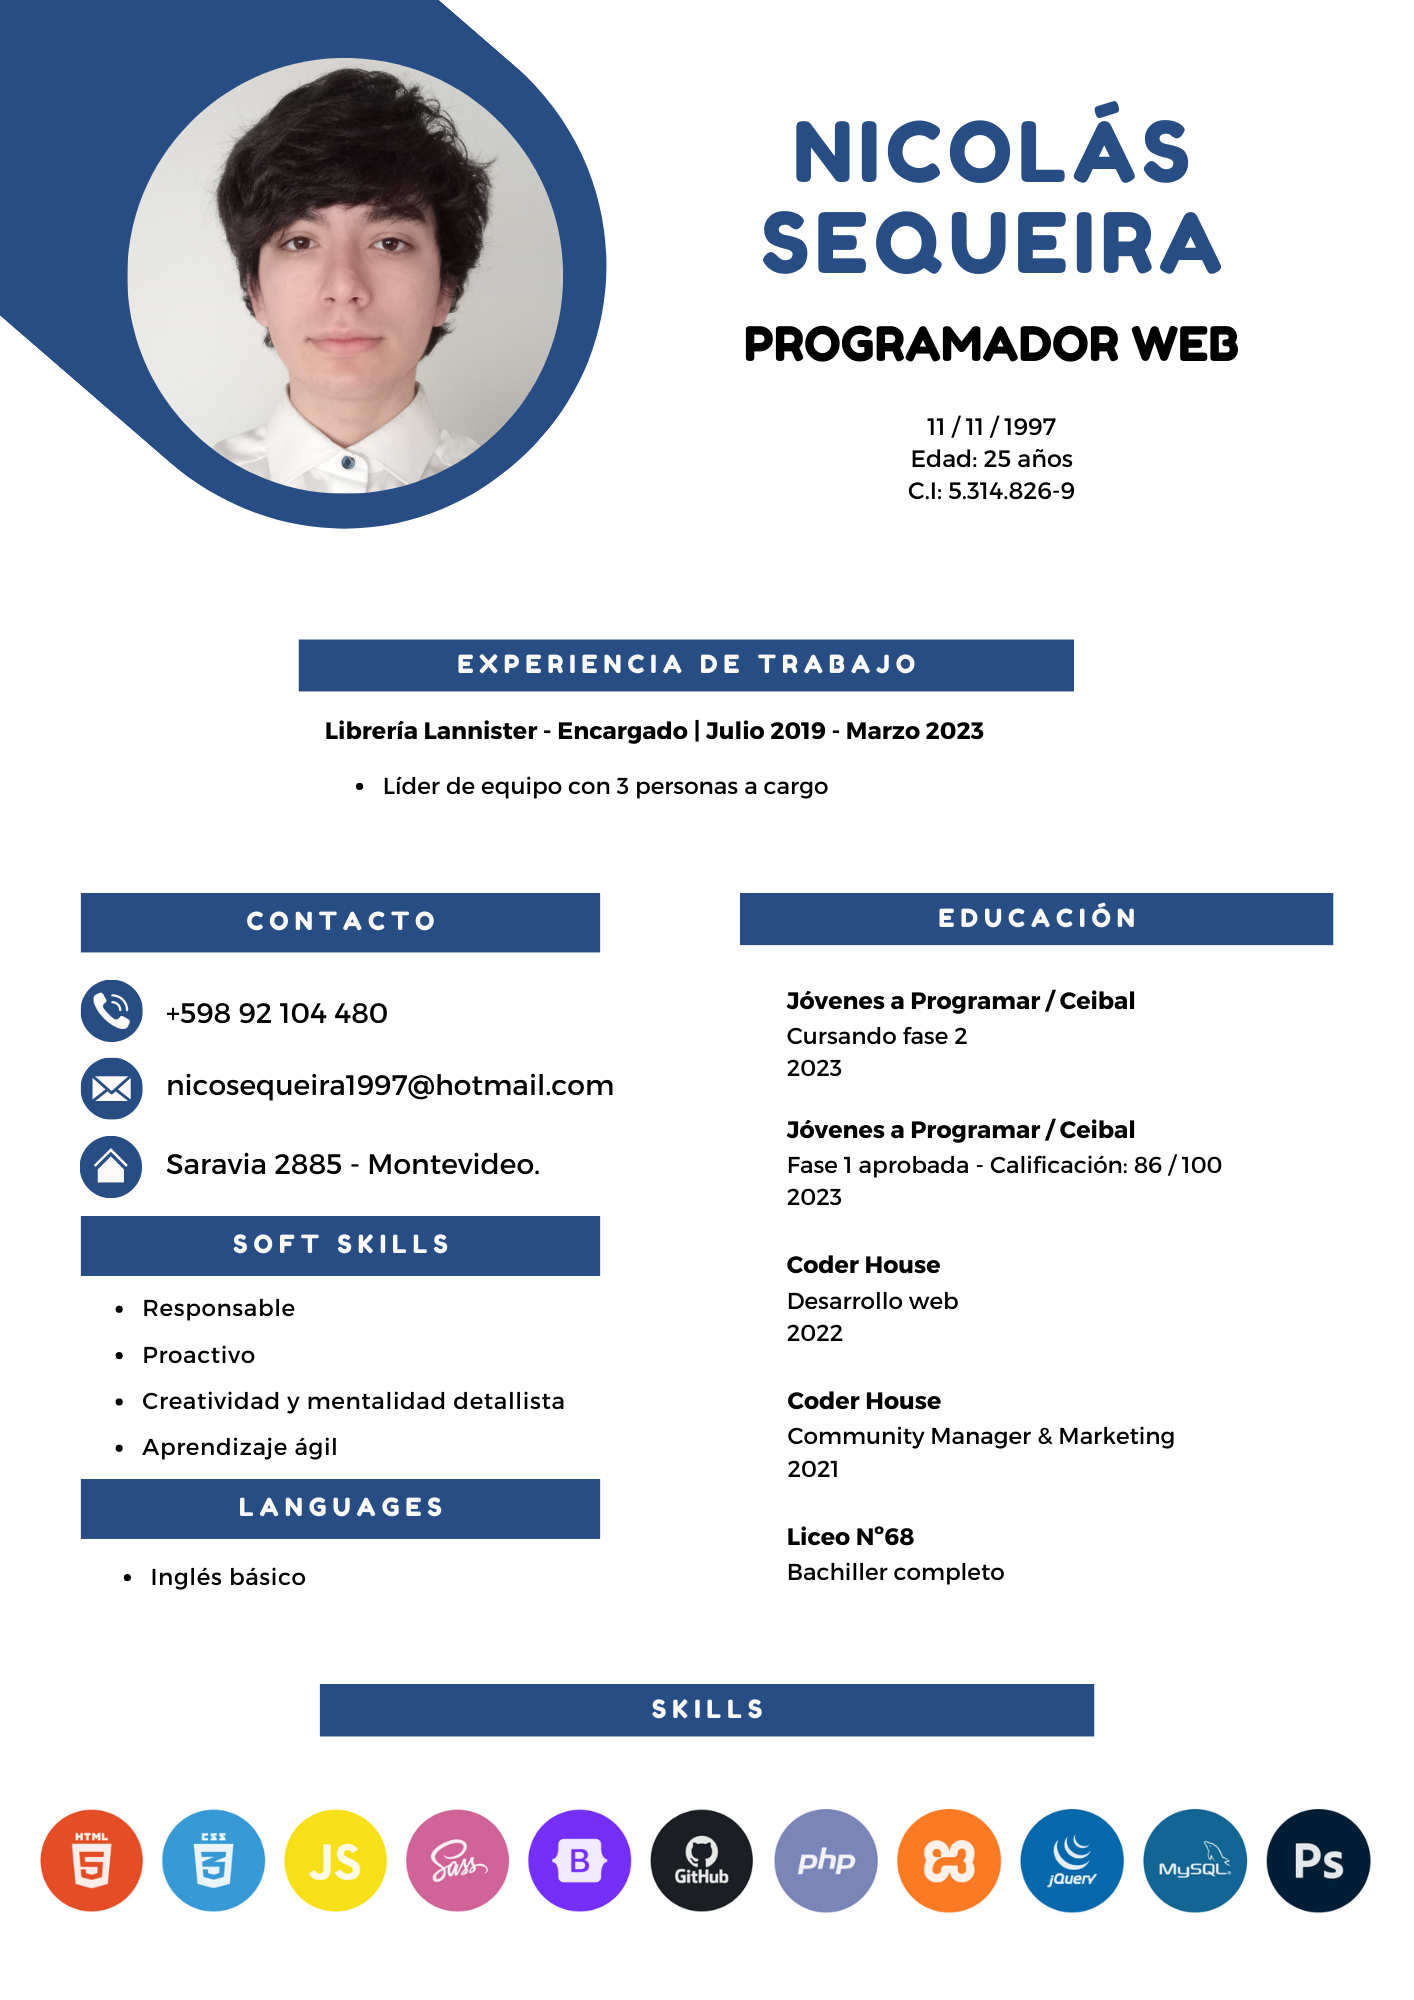
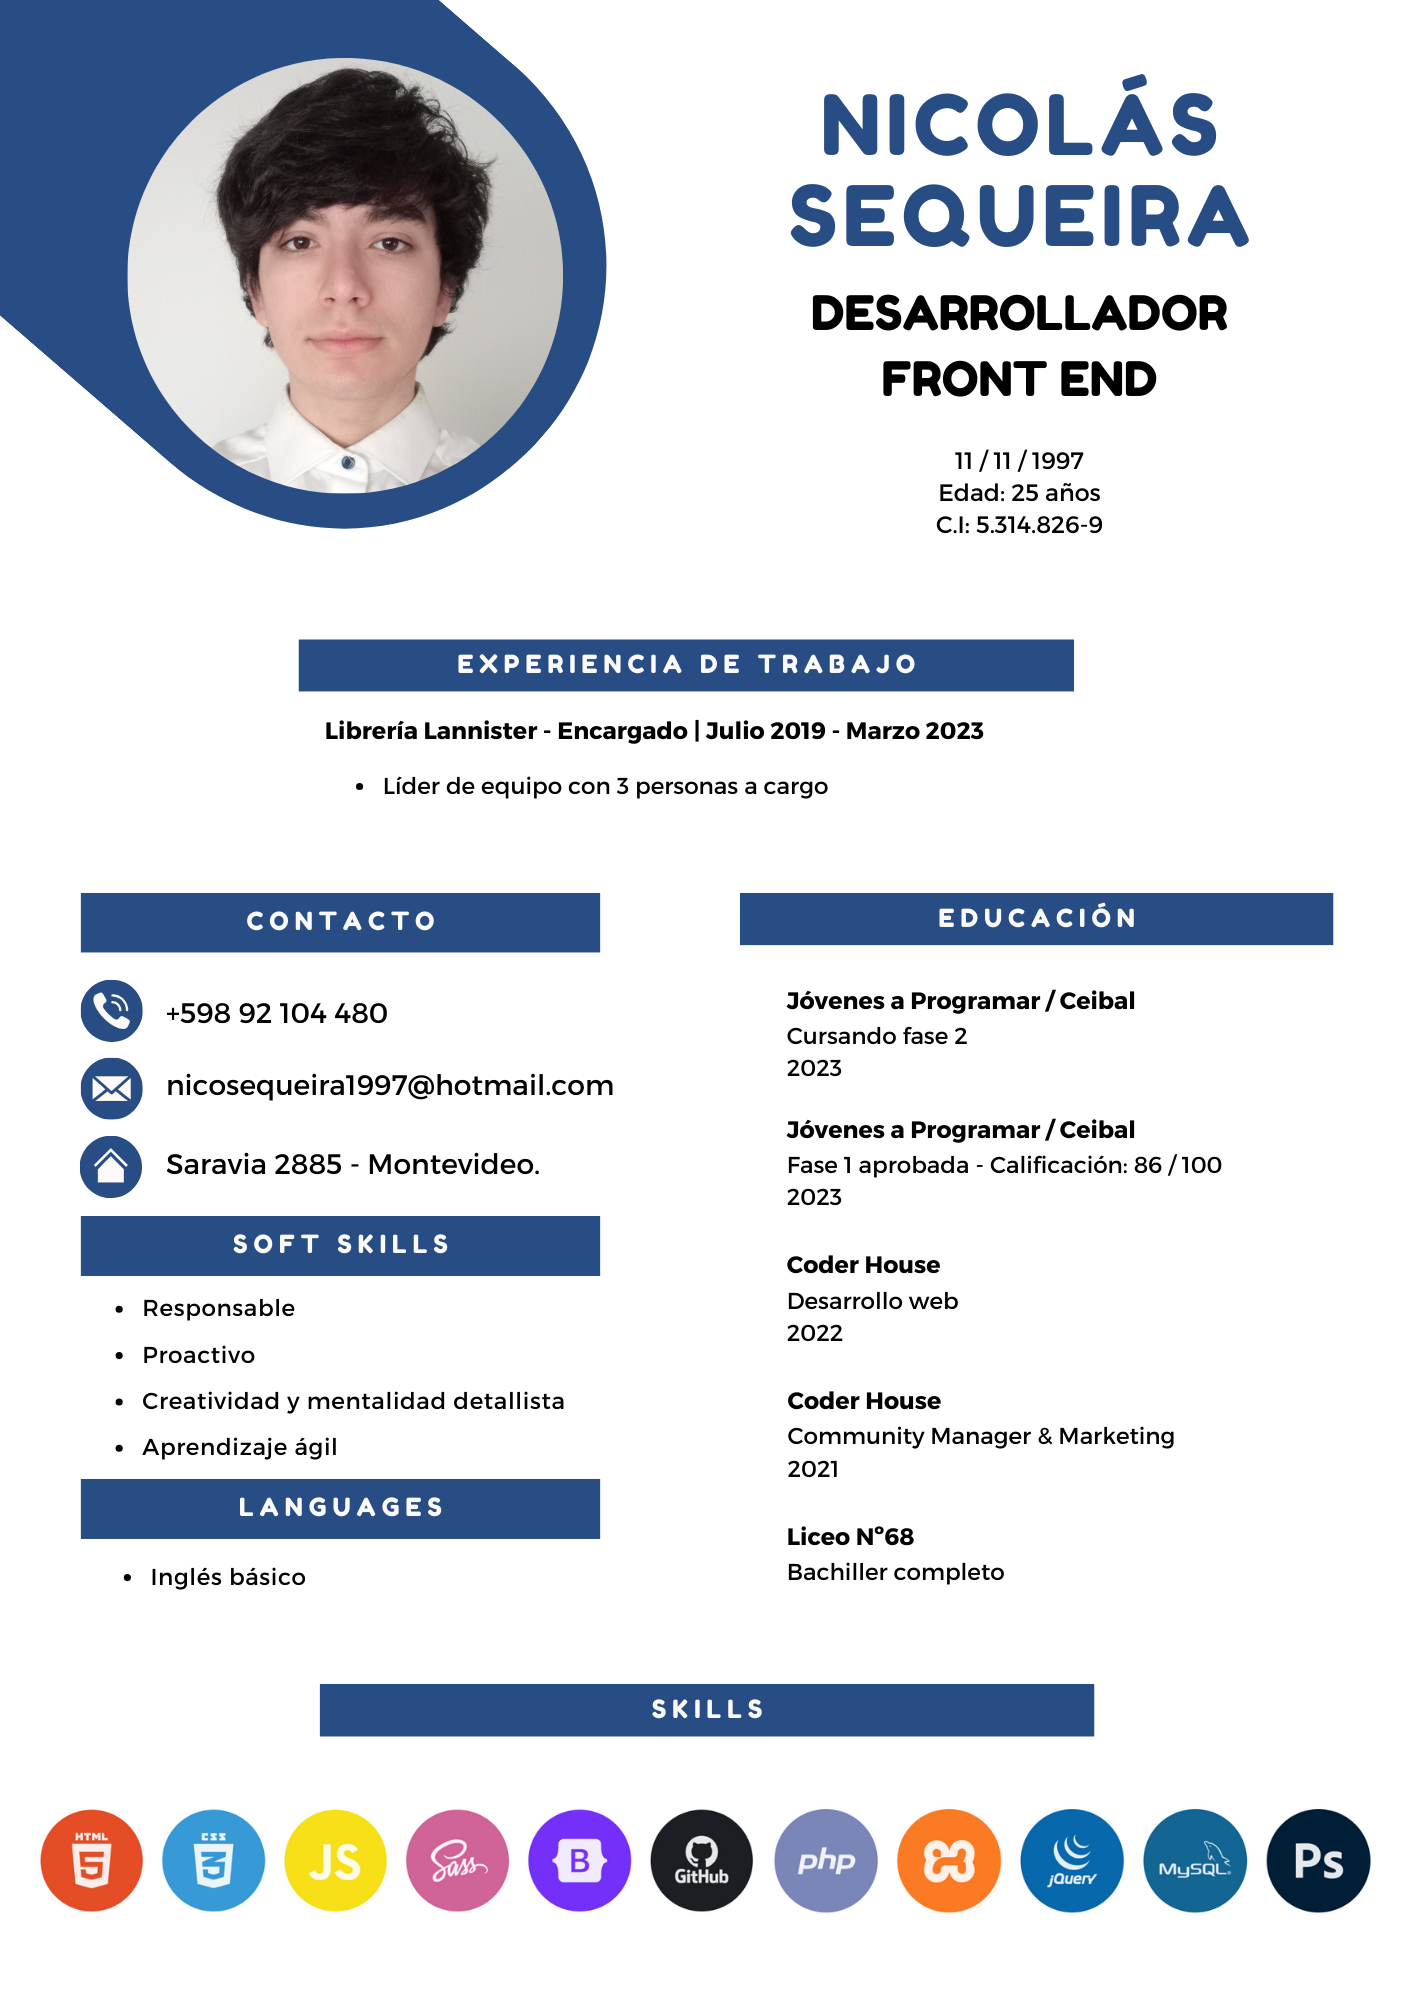
cambios cv y links nav

Changed region(s): [[0.529, 0.031, 0.9024, 0.279]]

diff --git a/sass/style.scss b/sass/style.scss
@@ -71,27 +71,34 @@ $colors:(
 
 .nav-link:hover{
     color: map-get($colors, "first");
-    animation-name: borderLink;
-    animation-duration: 0.6s;
 }
 
-@keyframes borderLink{
-    0%{
-        border-bottom: 3px solid rgb(0, 74, 173, 0);
-    }
-
-    50%{
-        border-bottom: 3px solid rgb(0, 74, 173, 0.9);     
-    }
-
-    100%{
-        border-bottom: 3px solid rgb(0, 74, 173, 0);
-    }
+.nav-link::after{
+    content: "";
+    display: flex;
+    position: relative;
+    right: 0;
+    bottom: 0;
+    left: 0;
+    height: 2px;
+    width: 100%;
+    background-color: map-get($colors, "third");
+    
+    /*animacion de derecha a izquierda*/
+    transform-origin: right;
+    transform: scaleX(0);
+    transition: transform 0.2s ease-in-out;
+  }
+  
+.nav-link:hover::after{
+    /*animacion de derecha a izquierda*/
+    transform-origin: left;
+    transform: scaleX(1);
 }
 
 .content-cv{
     width: fit-content;
-    border-radius: 10px;
+    border-radius: 25px;
     background-color: map-get($colors, "first");
 }
 

diff --git a/sass/style.css b/sass/style.css
@@ -61,25 +61,34 @@
 
 .nav-link:hover {
   color: #15345B;
-  animation-name: borderLink;
-  animation-duration: 0.6s;
 }
 
-@keyframes borderLink {
-  0% {
-    border-bottom: 3px solid rgba(0, 74, 173, 0);
-  }
-  50% {
-    border-bottom: 3px solid rgba(0, 74, 173, 0.9);
-  }
-  100% {
-    border-bottom: 3px solid rgba(0, 74, 173, 0);
-  }
+.nav-link::after {
+  content: "";
+  display: flex;
+  position: relative;
+  right: 0;
+  bottom: 0;
+  left: 0;
+  height: 2px;
+  width: 100%;
+  background-color: #004aad;
+  /*animacion de derecha a izquierda*/
+  transform-origin: right;
+  transform: scaleX(0);
+  transition: transform 0.2s ease-in-out;
 }
+
+.nav-link:hover::after {
+  /*animacion de derecha a izquierda*/
+  transform-origin: left;
+  transform: scaleX(1);
+}
+
 .content-cv {
   width: -moz-fit-content;
   width: fit-content;
-  border-radius: 10px;
+  border-radius: 25px;
   background-color: #15345B;
 }
 

diff --git a/index.html b/index.html
@@ -59,7 +59,7 @@
 
       <div class="col-10 content-intro" id="home">
         <div class="col-12">
-          <h2 class="col-12 title-intro">Estudiante de Programación Web</h2>
+          <h2 class="col-12 title-intro">Desarrollador Front End</h2>
           <p class="subtitle-intro">Cursando Fase 2 de Jóvenes a Programar de Ceibal</p>
           <img src="images/photo.jpg" class="col-10 col-sm-8 col-md-6 col-lg-5 col-xl-3 photo-intro" alt="">
         </div>
